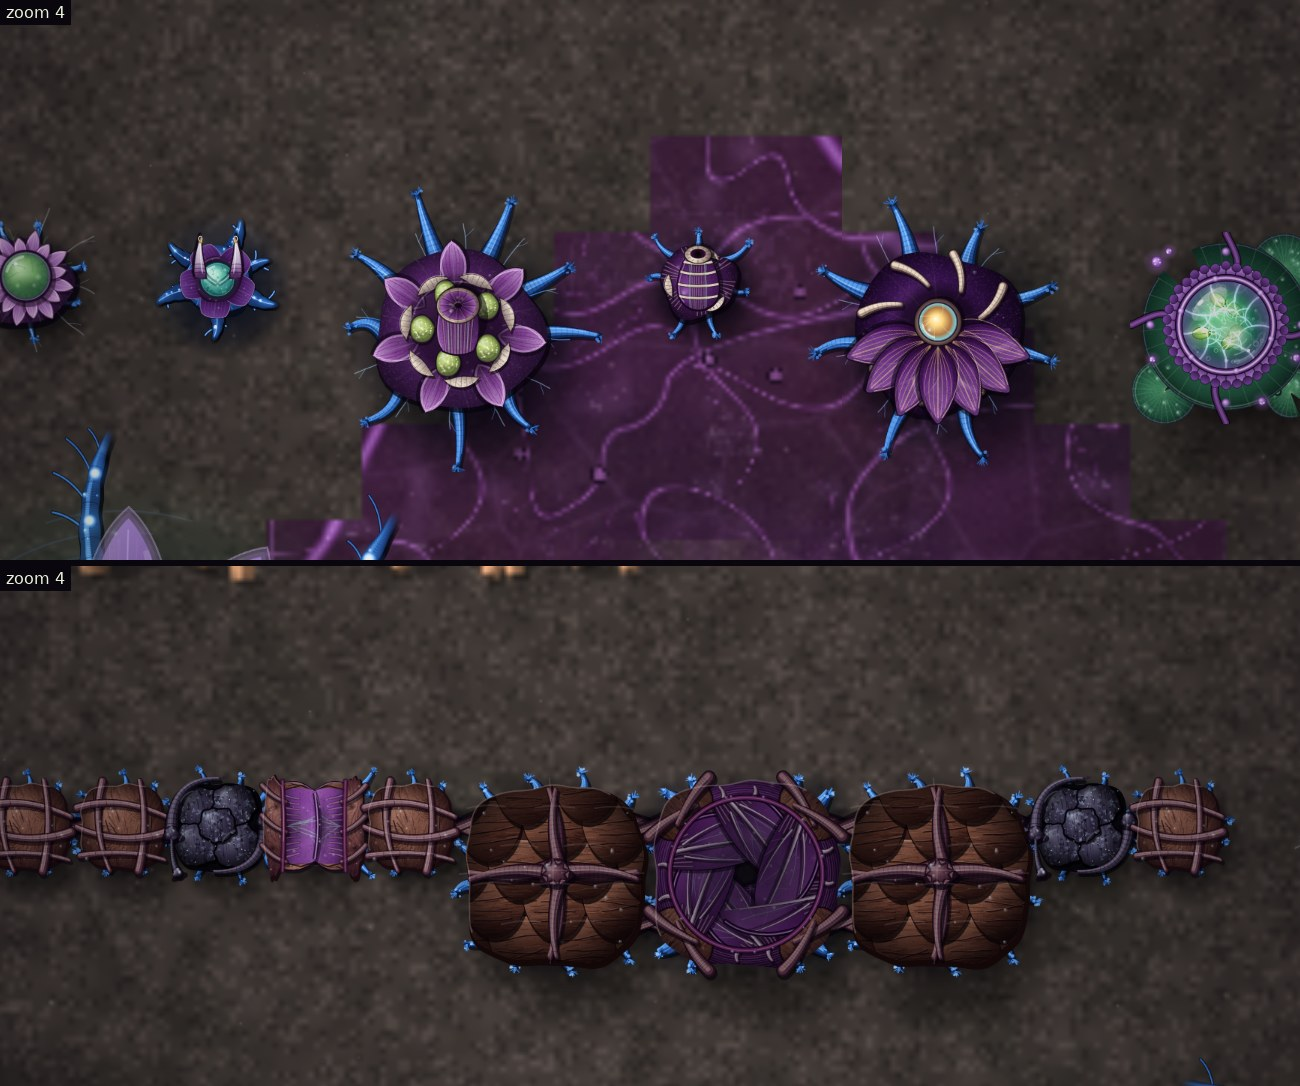
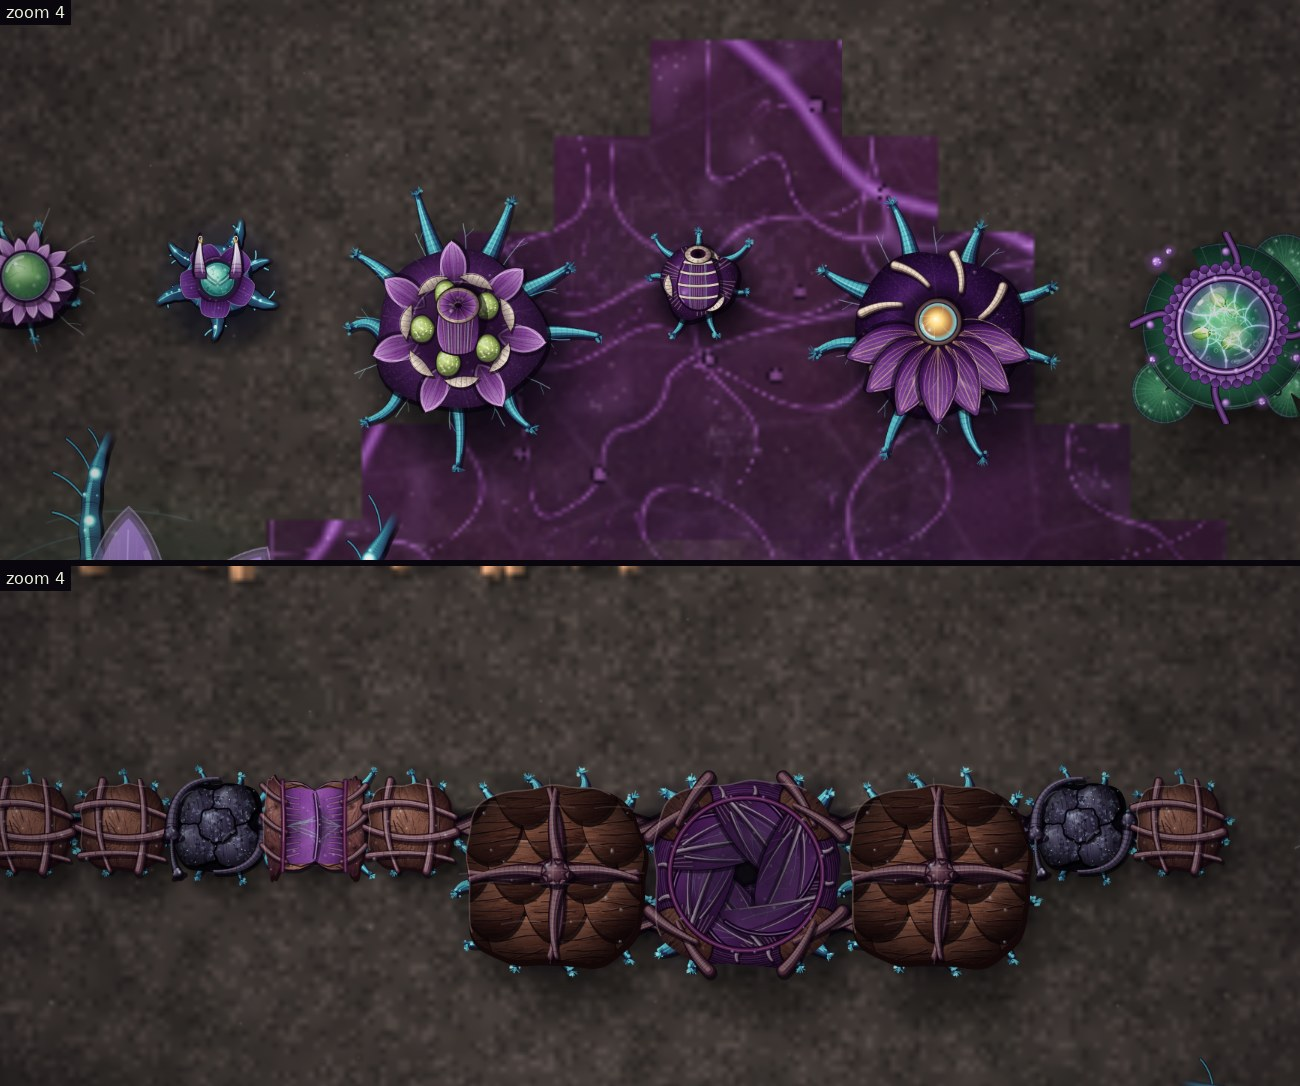
Recolour the hive's painted roots turquoise with a slight purple lean
Same 19 roots.png layers, same method; only the colour ramp changed.

Claude-Session: https://claude.ai/code/session_011Df18uXJFfteMyAYpAVXtN

diff --git a/art/source/recolor_roots.py b/art/source/recolor_roots.py
@@ -1,12 +1,12 @@
-# Recolours the painted root layers (art/plant/*/roots.png) to a clear blue, the pale blue of the Brood Chamber's sacs made bluer.
-# Each pixel keeps its alpha and its light and shade; its colour comes from the blue ramp below at the same brightness, with the
+# Recolours the painted root layers (art/plant/*/roots.png) to a turquoise with a slight purple lean, near the Bloom's centre.
+# Each pixel keeps its alpha and its light and shade; its colour comes from the turquoise ramp below at the same brightness, with the
 # layer's lit roots brightened into the ramp's middle (shadows stay dark). Usage: python3 recolor_roots.py <src dir> <out dir>
 # where both hold one folder per structure (art/plant). Run it on freshly painted roots, not on already recoloured ones.
 import sys,os
 from PIL import Image
 src,out=sys.argv[1],sys.argv[2]
 lum=lambda p:.299*p[0]+.587*p[1]+.114*p[2]
-STOPS=[(0,(0,0,0)),(28,(14,30,66)),(70,(34,78,150)),(115,(64,130,214)),(165,(120,180,246)),(210,(184,222,255)),(255,(240,250,255))]
+STOPS=[(0,(0,0,0)),(28,(26,30,62)),(70,(44,92,124)),(115,(66,158,170)),(165,(118,206,210)),(210,(188,236,236)),(255,(244,252,252))]
 lut=[]
 for L in range(256):
     j=next(k for k in range(1,len(STOPS)) if STOPS[k][0]>=L);(l0,c0),(l1,c1)=STOPS[j-1],STOPS[j];t=(L-l0)/(l1-l0)

diff --git a/art/ART-GUIDE.md b/art/ART-GUIDE.md
@@ -595,4 +595,4 @@ The Petal Gate is now too narrow for a Bulwark Ant, as its description always sa
 
 ### Root colour (v42 follow-up)
 
-The painted root layers (`roots.png`) of all 19 growths that have them, the Bloom included, are recoloured a clear blue (the pale blue of the Brood Chamber's sacs, made bluer). `art/source/recolor_roots.py` takes each pixel's colour from a blue ramp at the same brightness and keeps its alpha, light and shade; the brighter roots of each layer are lifted into the ramp's middle and the shadows stay dark. Run it on freshly painted roots (`python3 art/source/recolor_roots.py art/plant art/plant` after repainting), not on roots it has already recoloured. Only the colour changed: sizes, anchors and every other layer are as before, and Low quality keeps the previous look.
+The painted root layers (`roots.png`) of all 19 growths that have them, the Bloom included, are recoloured a turquoise with a slight purple lean, near the Bloom's centre (shadows a dusky violet blue, lit roots turquoise, highlights pale aqua). `art/source/recolor_roots.py` takes each pixel's colour from that ramp at the same brightness and keeps its alpha, light and shade; the brighter roots of each layer are lifted into the ramp's middle and the shadows stay dark. Run it on freshly painted roots (`python3 art/source/recolor_roots.py art/plant art/plant` after repainting), not on roots it has already recoloured. Only the colour changed: sizes, anchors and every other layer are as before, and Low quality keeps the previous look.

diff --git a/docs/v42-weapons-brood-art.md b/docs/v42-weapons-brood-art.md
@@ -159,7 +159,7 @@ No fields were added. Visual memory (flinch, fire pulse, gathering, sac state, e
 
 ## Follow-up: root colour
 
-The roots under every painted growth (19 layers, the Bloom's included) are now a clear blue, made with `art/source/recolor_roots.py` (see *Root colour* in the art guide). Only the colour changed.
+The roots under every painted growth (19 layers, the Bloom's included) are now a turquoise with a slight purple lean, near the Bloom's centre, made with `art/source/recolor_roots.py` (see *Root colour* in the art guide). Only the colour changed.
 
 ![Roots before and after](screenshots/v42/roots_recolour.jpg)
 ![Roots at zoom 4](screenshots/v42/roots_recolour_close.jpg)
